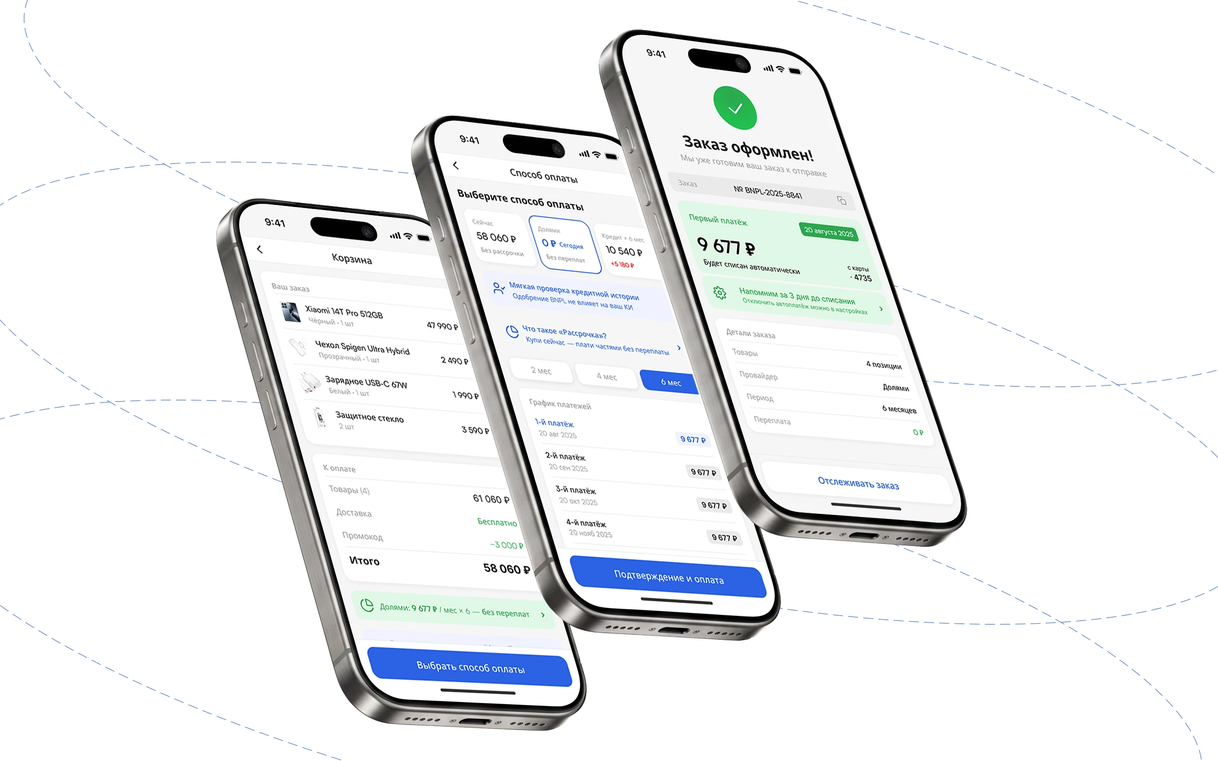
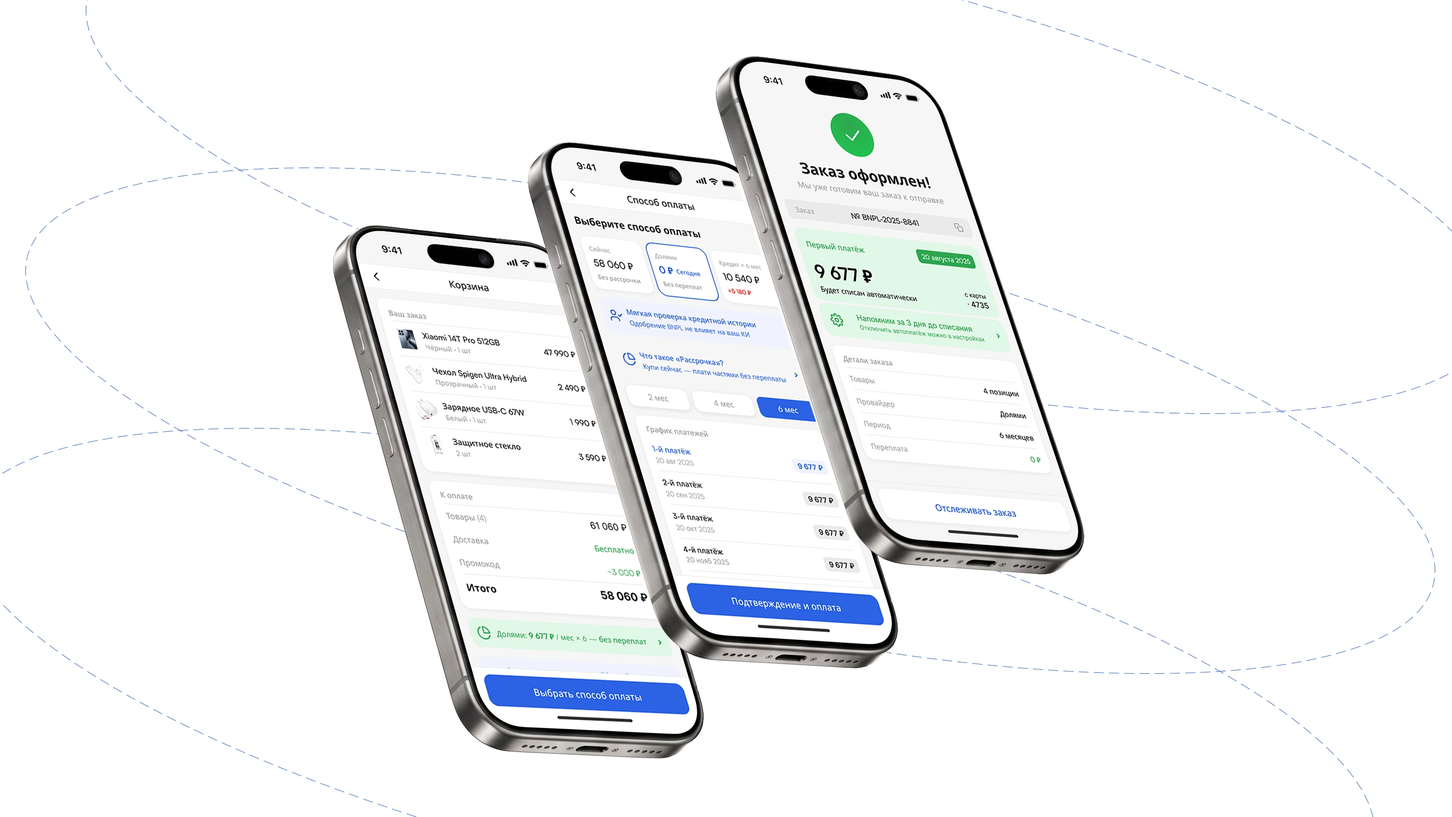
Кейс бизнес-планов собран по исходникам, обложка BNPL обновлена
Кейс. Формулировки взяты с доски «Анализ» в Figma, а не переписаны
своими словами.
- Появился раздел про границы задачи: на чём фокус и чего сознательно
  не делаем. Он объясняет половину дальнейших решений.
- Персона, цели и боли — дословно с доски.
- Основная продуктовая гипотеза приведена целиком.
- User Stories: все восемь с исходной нумерацией вместо четырёх
  пересказанных.
- Контекст первого раздела — формулировка задачи от заказчика.

Факты, подтверждённые Дарием: цифры прислал отдел аналитики центра
после внедрения, работа защищена перед заказчиком и сдана в прод,
поэтому проценты вернулись в шапку. Ссылка на карьерный раздел STEMPS
остаётся прежней, раздел временно недоступен и вернётся по ней же.

Обложка BNPL заменена на авторскую версию 2860x1609: это ровно
аспект карточки в витрине, кроп не нужен.

Changed region(s): [[0.1562, 0.0307, 0.8125, 0.9813]]

diff --git a/src/features/cases/data/business-model-lab.ts b/src/features/cases/data/business-model-lab.ts
@@ -14,7 +14,7 @@ export const businessModelLab: CaseStudy[] = [
     industry: "ai-saas",
     industryLabel: "AI SaaS",
     year: "2025",
-    role: "Продуктовый дизайнер, внешний подряд",
+    role: "Продуктовый дизайнер, редизайн и передача в разработку",
     timeline: "2025",
     team: "Дизайн я, разработка и ML на стороне центра",
     summary:
@@ -31,9 +31,12 @@ export const businessModelLab: CaseStudy[] = [
       alt: "Business Model Lab: веб-сервис для построения бизнес-моделей",
     },
     metrics: [
-      { value: "Логика видна", label: "на каждом шаге написано, зачем спрашивают и как ответ влияет на итог" },
-      { value: "План стал циклом", label: "оптимизация и правки вместо одноразовой генерации" },
-      { value: "Цифры заказчика", label: "активация +35%, время до первой ценности −17 мин; своими тестами не проверял" },
+      {
+        value: "+35%",
+        label: "активация: доля дошедших до первого готового плана",
+      },
+      { value: "−17 мин", label: "время до первой ценности" },
+      { value: "+30%", label: "конверсия в готовый бизнес-план" },
     ],
     tags: [
       "UX-аудит",
@@ -48,7 +51,7 @@ export const businessModelLab: CaseStudy[] = [
       {
         kicker: "01",
         title: "Что было до меня",
-        body: "Сервис уже работал. Человек заполнял анкету из сорока полей, нажимал кнопку и получал текст бизнес-плана. Меня позвали переосмыслить UX: сделать процесс понятным, последовательным и пригодным для того, кто открывает первое дело. Вёл всё от аудита до авторского надзора за вёрсткой.",
+        body: "Сервис Сибирского центра ИИ ТГУ уже существовал и работал. Человек заполнял анкету, нажимал кнопку и получал текст бизнес-плана. Формулировка задачи от заказчика: интерфейс перегружен, плохо объясняет логику работы и не поддерживает пользователя в процессе принятия решений. Нужно было переосмыслить опыт, а не переставить кнопки.",
         visual: {
           kind: "plan",
           columns: 3,
@@ -76,8 +79,44 @@ export const businessModelLab: CaseStudy[] = [
       },
       {
         kicker: "02",
+        title: "Границы, которые задал заказчик",
+        body: "Рамка была жёсткой, и это к лучшему: она не давала растечься в «спроектируем весь сервис». Продукт работает только с одним типом бизнеса, кофейнями, как самым массовым форматом. Расчётная и экономическая логика существует и не меняется. Экспорт делается одной кнопкой с выбором получателя, форматы документов не прорабатываются. Число экранов ограничено осознанно: главное — логика сценария, а не полнота функционала.",
+        visual: {
+          kind: "plan",
+          columns: 2,
+          framework: {
+            name: "Фокус и ограничения",
+            label: "Документ",
+            what: "На чём сосредоточиться и чего сознательно не делать. Первая колонка — критерии приёмки решения.",
+          },
+          groups: [
+            {
+              title: "Фокус",
+              items: [
+                "Удобство и понятность ввода данных",
+                "Снижение когнитивной нагрузки",
+                "Логика пошагового сценария",
+                "Понятная обратная связь от системы",
+                "Прозрачность оценки и рекомендаций",
+              ],
+            },
+            {
+              title: "Осознанно не делаем",
+              items: [
+                "Не проектируем весь сервис целиком",
+                "Не прорабатываем все возможные поля ввода",
+                "Не меняем бизнес-логику и расчёты",
+                "Не делаем документы для банков и госпрограмм",
+                "Не универсализируем сервис под другие виды бизнеса",
+              ],
+            },
+          ],
+        },
+      },
+      {
+        kicker: "03",
         title: "Для кого это делается",
-        body: "Сервис считает не абстрактный бизнес, а первое дело конкретного человека. Персону собрал из разговоров с заказчиком и из того, кто реально приходит в такие сервисы. Алексей важен одной деталью: он уже присмотрел помещение и боится его упустить, пока разбирается. Значит, времени на изучение терминов у него нет, и любой шаг, который просит подумать, работает против него.",
+        body: "Алексей давно думает об открытии собственной кофейни. Он любит кофе, часто работает в кофейнях и видит в этом формате понятный и человеческий бизнес. При этом у него нет опыта в бизнес-планировании, и он не до конца понимает, какие цифры важны, а какие второстепенны. Алексей боится допустить критические ошибки на старте и потерять вложенные деньги, поэтому ищет инструмент, который поможет разобраться и принять взвешенные решения. Одна деталь определила половину решений: он уже присмотрел помещение и боится упустить его, если будет долго разбираться.",
         visuals: [
           {
             kind: "plan",
@@ -89,31 +128,32 @@ export const businessModelLab: CaseStudy[] = [
             },
             groups: [
               {
-                title: "Алексей, 28–35",
+                title: "Алексей, 28–35 лет",
                 items: [
-                  "Город-миллионник, наёмный специалист или фрилансер",
-                  "Опыта в бизнесе нет или он минимальный",
-                  "Уверенный пользователь интерфейсов, но не эксперт",
-                  "Давно думает о своей кофейне: любит кофе, часто в них работает, видит понятный человеческий бизнес",
+                  "Город: город-миллионник",
+                  "Род занятий: наёмный специалист или фрилансер",
+                  "Опыт в бизнесе: отсутствует или минимальный",
+                  "Цифровая грамотность: уверенный пользователь, но не эксперт",
                 ],
               },
               {
-                title: "Чего хочет",
+                title: "Цели пользователя",
                 items: [
-                  "Понять, реалистична ли кофейня в выбранной локации",
-                  "Получить структурированный план, а не набор советов",
+                  "Понять, реалистична ли идея кофейни в выбранной локации",
+                  "Получить понятный и структурированный бизнес-план",
                   "Разобраться, где основные риски и что можно улучшить",
-                  "Подготовиться к запуску без дорогих консультантов",
+                  "Минимизировать вероятность финансовых ошибок",
+                  "Подготовиться к запуску бизнеса без привлечения дорогих консультантов",
                 ],
               },
               {
-                title: "Чего боится",
+                title: "Боли и страхи",
                 items: [
-                  "Не понимает, из чего вообще состоит хороший бизнес-план",
-                  "Боится ошибиться в расчётах и потерять вложенные деньги",
-                  "Перегружен терминами и финансовыми показателями",
-                  "Не знает, как оценить качество плана и что в нём улучшать",
-                  "Уже присмотрел помещение и боится упустить его, пока разбирается",
+                  "Не понимает, из чего должен состоять хороший бизнес-план",
+                  "Боится ошибиться в расчётах и принять неправильные решения",
+                  "Не уверен, что выбранная локация и формат будут прибыльными",
+                  "Перегружен сложными терминами и финансовыми показателями",
+                  "Не знает, как оценить качество бизнес-плана и что в нём улучшать",
                 ],
               },
             ],
@@ -143,7 +183,7 @@ export const businessModelLab: CaseStudy[] = [
         ],
       },
       {
-        kicker: "03",
+        kicker: "04",
         title: "Интерфейс собирал данные, но не помогал принять решение",
         body: "Первым делом разложил старый продукт на экраны и прошёл по нему как пользователь. Экранов много, но ломается путь в трёх местах, они отмечены флажками. Из них и выросли три вывода аудита.",
         visuals: [
@@ -180,7 +220,7 @@ export const businessModelLab: CaseStudy[] = [
         ],
       },
       {
-        kicker: "04",
+        kicker: "05",
         title: "Что делают аналоги и где они проигрывают",
         body: "Прежде чем чинить свой интерфейс, разобрал рынок: чем закрывают ту же задачу другие. Вывод оказался общим и для дорогих платформ, и для простых генераторов. Все соревнуются в скорости получения документа. Никто не соревнуется в том, понял ли человек результат. Это и стало местом, куда мы встали.",
         visual: {
@@ -222,9 +262,9 @@ export const businessModelLab: CaseStudy[] = [
         },
       },
       {
-        kicker: "05",
+        kicker: "06",
         title: "Какую работу человек нанимает сервис делать",
-        body: "Работы две, и обе не про генерацию текста. Первая: посмотреть на свой план и увидеть, где он слабый. Вторая: превратить эти слабые места в новый план и понять, с чего начинать. Из последней колонки выросли обе главные механики продукта: объяснять почему и насколько, и показывать первые шаги, а не только исправленный документ.",
+        body: "Работы две, и обе не про генерацию текста. Первая: разобрать текущий план и увидеть, где он слабый. Вторая: превратить слабые места в новый план и понять, с чего начинать. Из колонки гипотез выросли обе главные механики продукта. Основная продуктовая гипотеза звучит так: если сервис будет не просто генерировать бизнес-план, а пошагово объяснять начинающему предпринимателю логику расчётов, риски и последствия решений, то пользователь сможет понять жизнеспособность своей кофейни, улучшить бизнес-план без помощи дорогих консультантов и принять обоснованные решения о запуске.",
         visuals: [
           {
             kind: "table",
@@ -268,31 +308,47 @@ export const businessModelLab: CaseStudy[] = [
             framework: {
               name: "Ключевые User Stories",
               label: "Документ",
-              what: "Историй восемь, здесь четыре, которые определили сценарий. Остальные уточняют детали.",
+              what: "Восемь историй, по которым собирался сценарий. Каждая проверяется на макете: видно ли, что она закрыта.",
             },
             items: [
               {
-                title: "Ввод без терминов",
-                body: "Как начинающий предприниматель, я хочу отвечать на простые вопросы о своей кофейне, чтобы не разбираться в профессиональных терминах и всё равно получить корректный план.",
+                title: "Ввод данных и старт",
+                body: "US-1. Как начинающий предприниматель, я хочу отвечать на простые вопросы о своей будущей кофейне, чтобы не разбираться в профессиональных терминах и всё равно получить корректный бизнес-план.",
               },
               {
-                title: "Понимание, а не текст",
-                body: "Как пользователь без опыта планирования, я хочу видеть объяснения к расчётам и выводам, чтобы понимать, почему бизнес считается выгодным или рискованным.",
+                title: "Понимание результата, а не просто текст",
+                body: "US-2. Как пользователь без опыта в бизнес-планировании, я хочу видеть объяснения к расчётам и выводам, чтобы понимать, почему бизнес считается выгодным или рискованным.",
               },
               {
-                title: "Слабые места заранее",
-                body: "Как пользователь, я хочу видеть слабые места плана и потенциальные риски, чтобы заранее понимать, что может пойти не так после открытия.",
+                title: "Оценка жизнеспособности",
+                body: "US-3. Как предприниматель на этапе принятия решения, я хочу понять, жизнеспособна ли моя кофейня в текущей конфигурации, чтобы не вложить деньги в заведомо убыточный бизнес.",
               },
               {
-                title: "Было и стало в цифрах",
-                body: "Как пользователь, я хочу видеть, как изменения влияют на экономику бизнеса, чтобы принимать решения на основе цифр, а не ощущений.",
+                title: "Выявление проблем и рисков",
+                body: "US-4. Как пользователь, я хочу видеть слабые места бизнес-плана и потенциальные риски, чтобы заранее понимать, что может пойти не так после открытия.",
+              },
+              {
+                title: "Получение конкретных рекомендаций",
+                body: "US-5. Как начинающий предприниматель, я хочу получать понятные рекомендации по улучшению бизнес-плана, чтобы понимать, какие параметры стоит изменить и зачем.",
+              },
+              {
+                title: "Сравнение «было и стало»",
+                body: "US-6. Как пользователь, я хочу видеть, как изменения влияют на экономику бизнеса, чтобы принимать решения на основе цифр, а не ощущений.",
+              },
+              {
+                title: "Итоговый артефакт",
+                body: "US-7. Как предприниматель, я хочу выгрузить готовый бизнес-план в удобном формате, чтобы использовать его для общения с партнёрами, инвесторами или для собственного планирования.",
+              },
+              {
+                title: "Отсутствие перегруза",
+                body: "US-9. Как пользователь, я хочу видеть только релевантную информацию на каждом шаге, чтобы не теряться и не бросать процесс на середине.",
               },
             ],
           },
         ],
       },
       {
-        kicker: "06",
+        kicker: "07",
         title: "Сценарий: было и стало",
         body: "Старый путь был прямой линией в один конец: ввёл, получил, посмотрел, выгрузил. Если результат не устроил, вернуться некуда, только заполнять анкету заново. Новый путь замкнут в цикл: план показывает риски, оптимизация даёт новую версию, уточнение возвращает к пересборке. Плюс два входа сбоку: выбор точности расчёта на старте и каталог проектов, доступный с любой страницы.",
         visuals: [
@@ -476,7 +532,7 @@ export const businessModelLab: CaseStudy[] = [
         ],
       },
       {
-        kicker: "07",
+        kicker: "08",
         title: "Анкета как инструмент принятия решений",
         body: "Сорок полей разложил на семь шагов по пять-шесть вопросов. Дробление само по себе ничего не лечит, поэтому к каждому шагу добавил ответ на вопрос «зачем вы это спрашиваете». Маржинальность считается прямо во время ввода, фонд оплаты труда собирается деревом из живых людей, а в конце человек сам помечает, где он уверен, где прикинул, а где предположил.",
         visuals: [
@@ -501,7 +557,7 @@ export const businessModelLab: CaseStudy[] = [
         ],
       },
       {
-        kicker: "08",
+        kicker: "09",
         title: "Три состояния плана вместо одной генерации",
         body: "Главная переделка не в анкете, а в том, что происходит после неё. Раньше план был финальной точкой. Теперь это цикл из трёх состояний: текущий план с оценкой риска и структурой, оптимизированная версия со сниженным бюджетом и режим правок, где комментарий слева превращается в изменённый план справа. Человек перестаёт быть получателем текста и становится тем, кто этот текст правит.",
         visuals: [
@@ -532,7 +588,7 @@ export const businessModelLab: CaseStudy[] = [
         ],
       },
       {
-        kicker: "09",
+        kicker: "10",
         title: "Несколько моделей рядом",
         body: "Предприниматель редко считает один вариант. Он сравнивает кофейню в Петербурге с кофейней в Москве, дорогой формат с дешёвым. Раньше для этого приходилось заводить новый расчёт и терять предыдущий. Сделал каталог проектов: модели живут параллельно, у каждой свой цвет и имя, их можно сравнить и выбрать сильнейшую. Это и есть причина вернуться в сервис второй раз.",
         visual: {
@@ -543,9 +599,9 @@ export const businessModelLab: CaseStudy[] = [
         },
       },
       {
-        kicker: "10",
+        kicker: "11",
         title: "Результаты и что с ними не так",
-        body: "Заказчик считает эффект по пяти показателям. Оговорка обязательна: юзабилити-тесты стоят в плане следующим шагом, а не позади. Это значит, что цифры сняты с продуктовой аналитики, но качественного подтверждения под ними пока нет.",
+        body: "Решение защищено перед заказчиком и ушло в разработку. Цифры ниже прислал отдел аналитики центра уже после внедрения: это их продуктовая аналитика, а не моя оценка. Оговорка одна и она честная: юзабилити-тесты стоят следующим шагом, поэтому за числами стоит поведение в проде, но не разобранные вживую сессии.",
         visuals: [
           {
             kind: "stat",

diff --git a/src/features/cases/data/stemps-career.ts b/src/features/cases/data/stemps-career.ts
@@ -21,6 +21,7 @@ export const stempsCareer: CaseStudy[] = [
       money: "Платформа платит за трафик один раз, а зарабатывает дважды: сначала курс, потом карьерный пакет за 19 000–49 000 рублей. Средний чек с человека растёт без новых расходов на привлечение.",
       lever: "Давлю на доходимость до записи. Каждый процент на шаге «долистал до планов» превращается в заявку, потому что этот трафик уже оплачен курсами.",
     },
+    liveUrl: "https://stemps.ru/career",
     cover: {
       src: "/cases/stemps-career/cover.webp",
       alt: "Карьерный раздел STEMPS: первый экран и планы",
@@ -459,7 +460,7 @@ export const stempsCareer: CaseStudy[] = [
       {
         kicker: "12",
         title: "Где раздел сейчас",
-        body: "Раздел был собран и выложен, экраны в кейсе снятые с работавшей версии. Сейчас по прежнему адресу его нет: платформа перестраивается, и куда он вернётся, решает заказчик. Что до эффективности, честная формулировка такая: воронка описана и размечена, но сквозная аналитика до оплаты подключена не была, поэтому цифр за срок у меня нет.",
+        body: "Раздел собран, выложен и работал по адресу stemps.ru/career, экраны в кейсе снятые с живой версии. Сейчас платформа перестраивается и раздел временно недоступен, вернётся по тому же адресу. Что до эффективности, честная формулировка такая: воронка описана и размечена, но сквозная аналитика до оплаты подключена не была, поэтому цифр за срок у меня нет.",
         short: true,
         visual: {
           kind: "shot",
